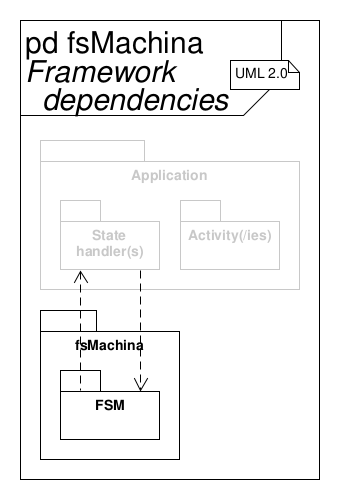
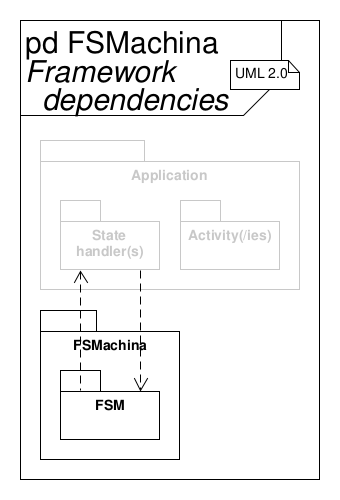
Change project’s name stylization
... from "fsMachina" to "FSMachina".

Changed region(s): [[0.2059, 0.06, 0.6471, 0.12], [0.2059, 0.66, 0.4412, 0.72]]

diff --git a/README.md b/README.md
@@ -1,4 +1,4 @@
-# fsMachina - Simple finite state maschine framework
+# FSMachina - Simple finite state maschine framework
 
 This framework employs a simple and tiny
 
